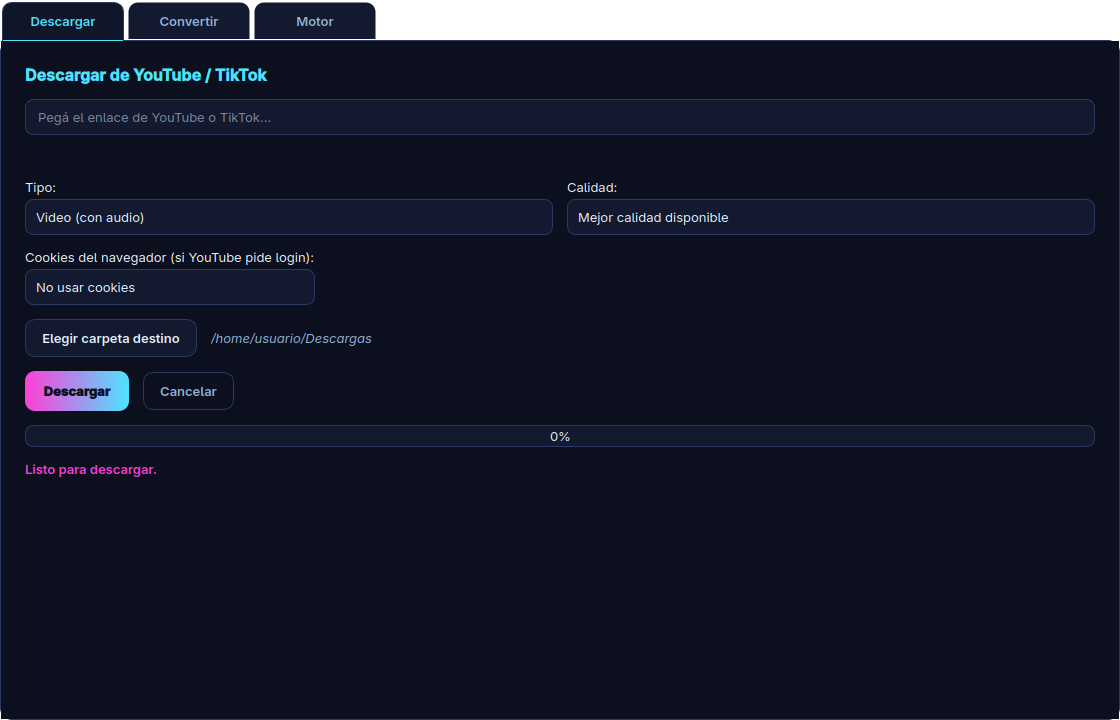
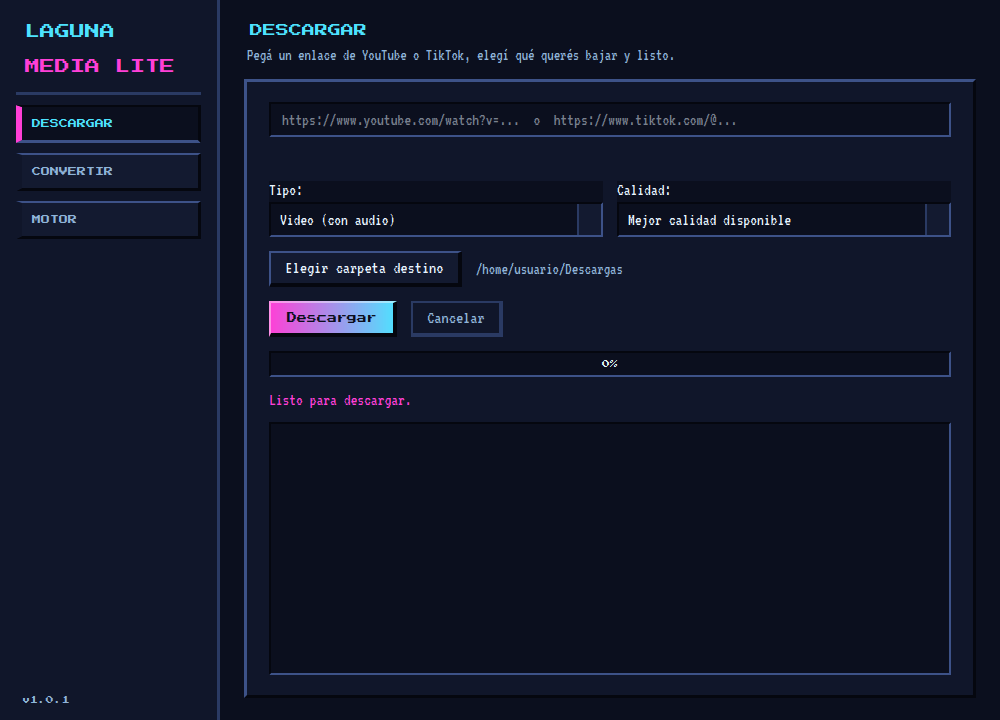
README: versión 1.0.1 con Flatpak, sin cookies y capturas de la interfaz nueva

diff --git a/README.md b/README.md
@@ -10,9 +10,9 @@
 
 <p align="center">
   <a href="LICENSE"><img src="https://img.shields.io/badge/Licencia-Propietaria-red.svg" alt="Licencia: Propietaria" /></a>
-  <img src="https://img.shields.io/badge/Versión-1.0.0-blue.svg" alt="Versión 1.0.0" />
+  <img src="https://img.shields.io/badge/Versión-1.0.1-blue.svg" alt="Versión 1.0.1" />
   <img src="https://img.shields.io/badge/Plataforma-Linux%20%7C%20Windows-lightgrey.svg" alt="Plataforma: Linux y Windows" />
-  <img src="https://img.shields.io/badge/Tamaño-97--146%20MB-informational.svg" alt="Tamaño del binario" />
+  <img src="https://img.shields.io/badge/Tamaño-97--129%20MB-informational.svg" alt="Tamaño del binario" />
   <img src="https://img.shields.io/badge/Telemetría-ninguna-success.svg" alt="Sin telemetría" />
 </p>
 
@@ -21,8 +21,8 @@
 </p>
 
 Este repositorio distribuye **sólo los binarios compilados** de Laguna Media
-Lite (AppImage para Linux y portable para Windows). El código fuente no se
-publica.
+Lite (AppImage y Flatpak para Linux, portable para Windows). El código fuente no
+se publica.
 
 ---
 
@@ -31,7 +31,8 @@ publica.
 Laguna Media Lite es la versión mínima de **Laguna Media**: un proyecto
 independiente, hecho para una sola cosa — **descargar y convertir lo más rápido
 posible**. Arranca en menos de un segundo porque no carga reproductores,
-biblioteca, miniaturas ni temas personalizables. Sólo tres pestañas.
+biblioteca, miniaturas ni temas personalizables. Sólo tres secciones, en una
+barra lateral.
 
 | | Laguna Media | Laguna Media Lite |
 |---|---|---|
@@ -41,10 +42,11 @@ biblioteca, miniaturas ni temas personalizables. Sólo tres pestañas.
 | Conversión de códec (H.264/HEVC/AV1) | ✅ | ❌ |
 | Biblioteca con miniaturas y caché | ✅ | ❌ |
 | Temas y personalización | ✅ | ❌ (tema fijo) |
-| Pestañas | 7 | **3** |
+| Secciones | 7 (pestañas) | **3 (barra lateral)** |
 | Arranque | ~3 s | **< 1 s** |
 | Portable para Windows | 112 MB | **97 MB** |
-| AppImage para Linux | 163 MB | **146 MB** |
+| AppImage para Linux | 163 MB | **129 MB** |
+| Flatpak para Linux | ❌ | **102 MB** |
 
 Si querés además reproductor, biblioteca y temas, la app completa está en
 **[LagunaMedia-App](https://github.com/JonathanDevHurtado/LagunaMedia-App)**.
@@ -55,10 +57,10 @@ Si querés además reproductor, biblioteca y temas, la app completa está en
 
 | Descargar | Convertir |
 |---|---|
-| ![Pestaña Descargar](screenshots/01-descargar.png) | ![Pestaña Convertir](screenshots/02-convertir.png) |
+| ![Sección Descargar](screenshots/01-descargar.png) | ![Sección Convertir](screenshots/02-convertir.png) |
 
 <p align="center">
-  <img src="screenshots/03-motor.png" alt="Pestaña Motor: actualización de yt-dlp" width="820" />
+  <img src="screenshots/03-motor.png" alt="Sección Motor: actualización de yt-dlp" width="820" />
 </p>
 
 *Capturas de la app real, con rutas de ejemplo.*
@@ -72,7 +74,8 @@ Todos los binarios de la última versión están en
 
 | Archivo | Plataforma | Requisitos |
 |---|---|---|
-| [`LagunaMediaLite-x86_64.AppImage`](../../releases/latest/download/LagunaMediaLite-x86_64.AppImage) | Linux x86_64 | glibc 2.35+ (Fedora 36+, Ubuntu 22.04+, Debian 12+) |
+| [`LagunaMediaLite-x86_64.AppImage`](../../releases/latest/download/LagunaMediaLite-x86_64.AppImage) | Linux x86_64 | glibc 2.35+ (Fedora 36+, Ubuntu 22.04+, Debian 12+) + `libfuse2` |
+| [`LagunaMediaLite-x86_64.flatpak`](../../releases/latest/download/LagunaMediaLite-x86_64.flatpak) | Linux x86_64 | Flatpak 1.10+ (Fedora, Ubuntu, Debian, etc.) |
 | [`LagunaMediaLite-portable-win64.zip`](../../releases/latest/download/LagunaMediaLite-portable-win64.zip) | Windows 10 / 11 x64 | Ninguno (portable, sin instalador) |
 | [`SHA256SUMS.txt`](../../releases/latest/download/SHA256SUMS.txt) | — | Checksums para verificar integridad |
 
@@ -93,7 +96,20 @@ Get-FileHash .\LagunaMediaLite-portable-win64.zip -Algorithm SHA256
 
 ## Instalación
 
-### Linux — AppImage (recomendado)
+### Linux — Flatpak (recomendado en Fedora 41+)
+
+Fedora y otras distribuciones nuevas ya no incluyen `libfuse2`, así que el
+AppImage no abre ahí. El Flatpak funciona igual en todas:
+
+```bash
+flatpak install LagunaMediaLite-x86_64.flatpak
+flatpak run com.lagunamedia.LagunaMediaLite
+```
+
+La primera vez, Flatpak pide instalar el runtime `org.freedesktop.Platform//24.08`
+si no lo tenés (lo baja solo).
+
+### Linux — AppImage
 
 No hace falta instalar nada:
 
@@ -102,11 +118,13 @@ chmod +x LagunaMediaLite-x86_64.AppImage
 ./LagunaMediaLite-x86_64.AppImage
 ```
 
-Si el sistema no tiene FUSE habilitado:
+Si el sistema no tiene FUSE habilitado (o no tiene `libfuse2`):
 
 ```bash
 ./LagunaMediaLite-x86_64.AppImage --appimage-extract-and-run
 ```
+
+En Fedora 41+ directamente no hay `libfuse2`: usá la versión Flatpak.
 
 ### Windows — portable
 
@@ -128,8 +146,6 @@ elegís:
 - **Video con audio** — hasta 4K/2160p, según lo que ofrezca el video.
 - **Solo audio** — MP3, Opus, M4A, FLAC o WAV, con bitrate seleccionable.
 
-Tiene **cookies del navegador** integradas, para los videos que piden iniciar
-sesión.
 
 ### Convertir
 
@@ -138,6 +154,12 @@ OGG, MP4 (H.264) o MKV (H.264)**.
 
 Los archivos se convierten **en paralelo**: varios a la vez, según los núcleos
 de la CPU, en lugar de uno detrás de otro.
+
+### Interfaz
+
+Navegación lateral (sin pestañas), estética de bloques con bordes duros,
+biseles y tipografía pixelada, sobre la paleta neon de Laguna. La ventana abre
+directo: no hay pantalla de carga.
 
 ### Motor
 
@@ -155,11 +177,11 @@ la app grande.
 
 | Pieza | Tecnología |
 |---|---|
-| Interfaz | Python 3 + PySide6 (Qt Widgets) |
+| Interfaz | Python 3 + PySide6 (Qt Widgets), tema de bloques con tipografía pixelada |
 | Descarga | yt-dlp (Unlicense) |
 | Conversión de audio y video | FFmpeg estático (GPL) |
 | Configuración | QSettings en `~/.config/LagunaMediaLite/` |
-| Empaquetado | PyInstaller (onedir) + AppImage / ZIP portable |
+| Empaquetado | PyInstaller (onedir) + AppImage / Flatpak / ZIP portable |
 
 ### Descarga
 
@@ -194,6 +216,9 @@ publicar una versión nueva de la aplicación.
   dentro de un contenedor Ubuntu 22.04 para que el binario corra en cualquier
   distribución con glibc 2.35 o superior.
 - **Windows**: PyInstaller `onedir` → ZIP portable, sin instalador.
+- **Flatpak**: manifiesto propio (`com.lagunamedia.LagunaMediaLite`) con
+  `org.freedesktop.Platform//24.08`; PySide6-Essentials y yt-dlp se instalan
+  dentro del sandbox y FFmpeg va como binario estático.
 - El `.spec` de PyInstaller **excluye QtMultimedia** (Lite no reproduce nada):
   eso recorta decenas de MB del binario final.
 
@@ -212,7 +237,8 @@ es más rápido y más simple de mantener.
 
 **¿Por qué un tema fijo?** Personalizar colores y fondos implica cargar y
 guardar configuración de estilo, escanear la carpeta de imágenes y repintar la
-UI. Lite usa un único tema oscuro "neon" y se ahorra todo eso.
+UI. Lite usa un único tema oscuro "neon" con estética de bloques (bordes duros,
+biseles y tipografía pixelada) y se ahorra todo eso.
 
 **¿Por qué el motor se actualiza en caliente?** YouTube cambia sus defensas cada
 pocas semanas. Con el actualizador, un cambio no obliga a esperar una versión
@@ -225,8 +251,9 @@ nueva de la app.
 
 ## Requisitos
 
-- **Linux**: x86_64 con glibc 2.35 o superior (Fedora 36+, Ubuntu 22.04+,
-  Debian 12+). No requiere Python ni dependencias del sistema.
+- **Linux**: x86_64. Con **Flatpak** funciona en cualquier distribución
+  (Fedora, Ubuntu, Debian, Arch, etc.). El **AppImage** pide glibc 2.35 o
+  superior (Fedora 36+, Ubuntu 22.04+, Debian 12+) y `libfuse2`.
 - **Windows**: 10 u 11 de 64 bits. No requiere instalación.
 
 ---
@@ -260,8 +287,8 @@ nueva de la app.
 
 | Problema | Solución |
 |---|---|
-| YouTube "ya no descarga" | Pestaña **Motor** → *Actualizar motor de descargas* |
-| YouTube pide iniciar sesión | Elegí tu navegador en **Cookies del navegador** |
+| YouTube "ya no descarga" | Sección **Motor** → *Actualizar motor de descargas* |
+| El AppImage no abre en Fedora 41+ | Fedora ya no trae `libfuse2`: instalá la versión **Flatpak** |
 | El AppImage no abre (FUSE) | `./LagunaMediaLite-x86_64.AppImage --appimage-extract-and-run` |
 | El AppImage no abre (GLIBC) | Necesitás glibc 2.35+ (Fedora 36+, Ubuntu 22.04+, Debian 12+) |
 | Descargas lentas | Instalá `aria2c` (`sudo dnf install aria2` / `sudo apt install aria2`) |
@@ -289,12 +316,22 @@ En la carpeta que elijas. Por defecto, en tu carpeta de Descargas.
 **¿Necesito instalar FFmpeg o yt-dlp por separado?**
 No: vienen incluidos en el binario.
 
-**¿Por qué pesa 146 MB?**
+**¿Por qué pesa 129 MB (AppImage) o 102 MB (Flatpak)?**
 Porque incluye FFmpeg estático, Python y Qt. Es el costo de que funcione sin
 dependencias en cualquier equipo.
 
 **¿Habrá versión para Android?**
 Lite es para escritorio. La app completa tiene versión Android.
+
+---
+
+## Cambios de la versión 1.0.1
+
+- **Corregido**: la app se cerraba sola al abrir (Linux y Windows).
+- **Nuevo**: versión **Flatpak**, que funciona en Fedora 41+ sin `libfuse2`.
+- **Nuevo**: interfaz rediseñada con navegación lateral y estética de bloques.
+- **Eliminado**: la pantalla de carga.
+- **Eliminado**: la opción de cookies del navegador.
 
 ---
 
@@ -339,3 +376,4 @@ El usuario es el único responsable del uso que le dé y de cumplir con las leye
 de su país, los términos de servicio de las plataformas y los derechos de autor
 del contenido que descargue. El autor no se hace responsable por usos
 indebidos.
+
